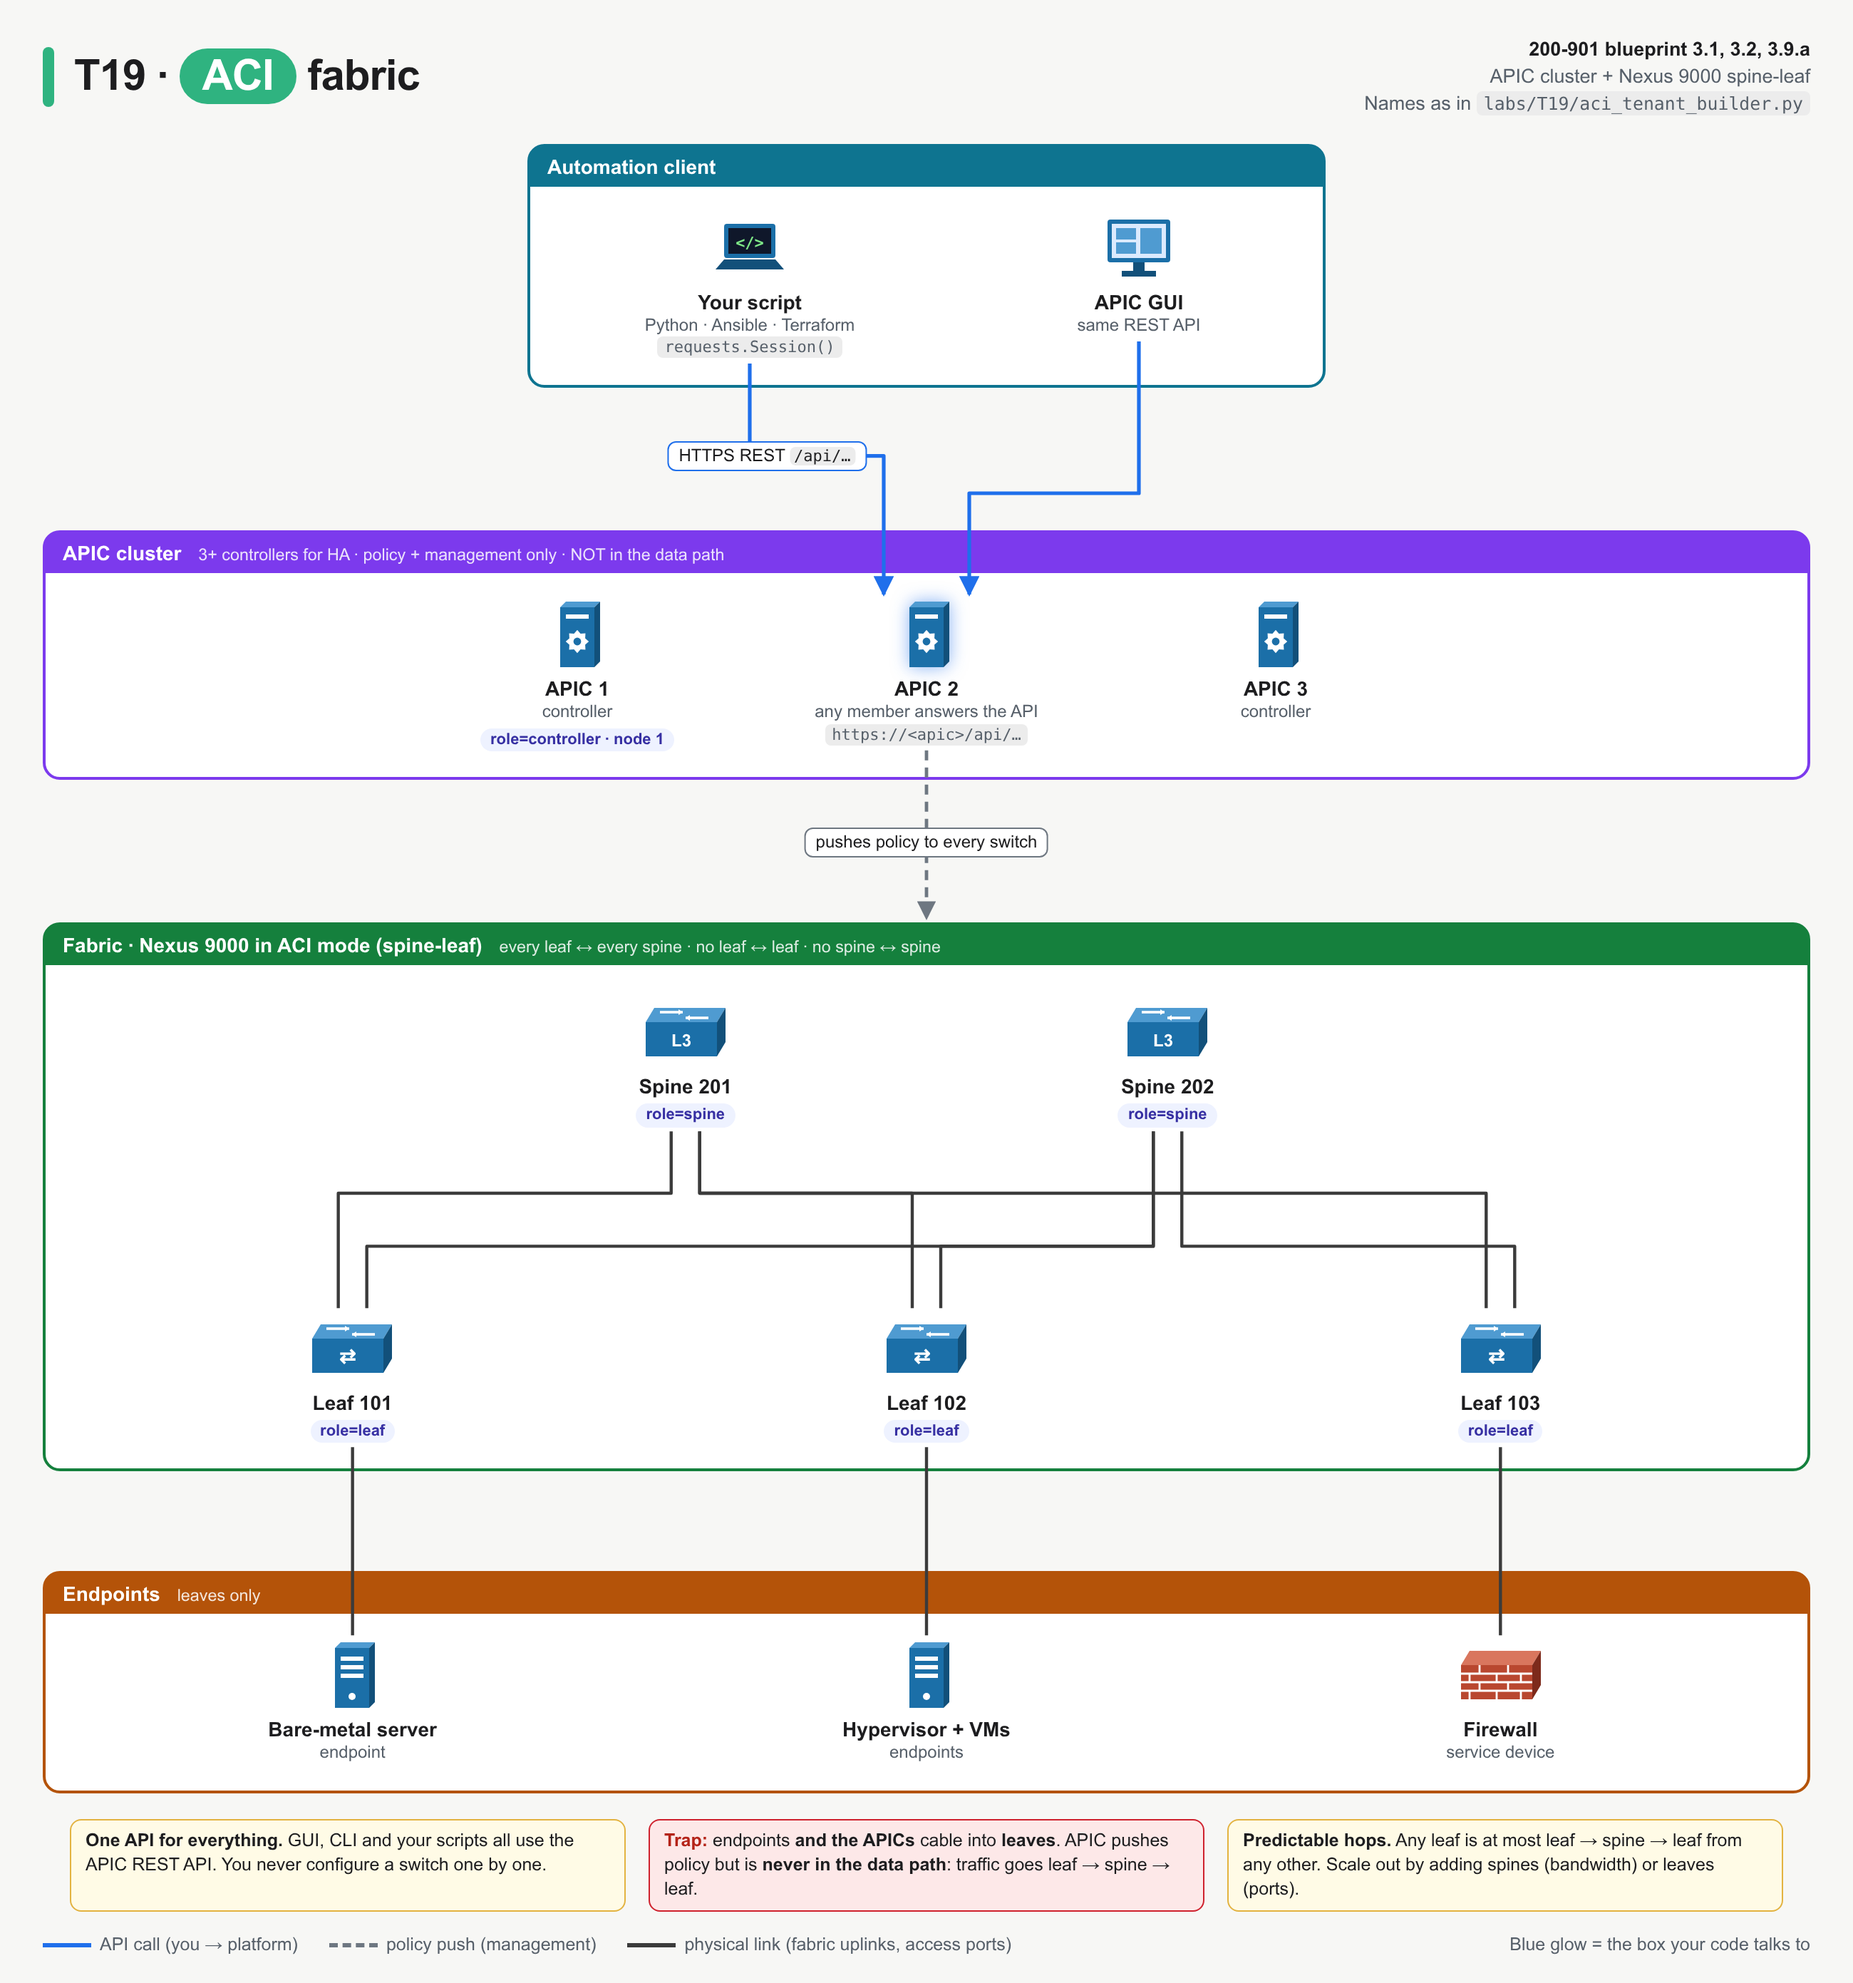
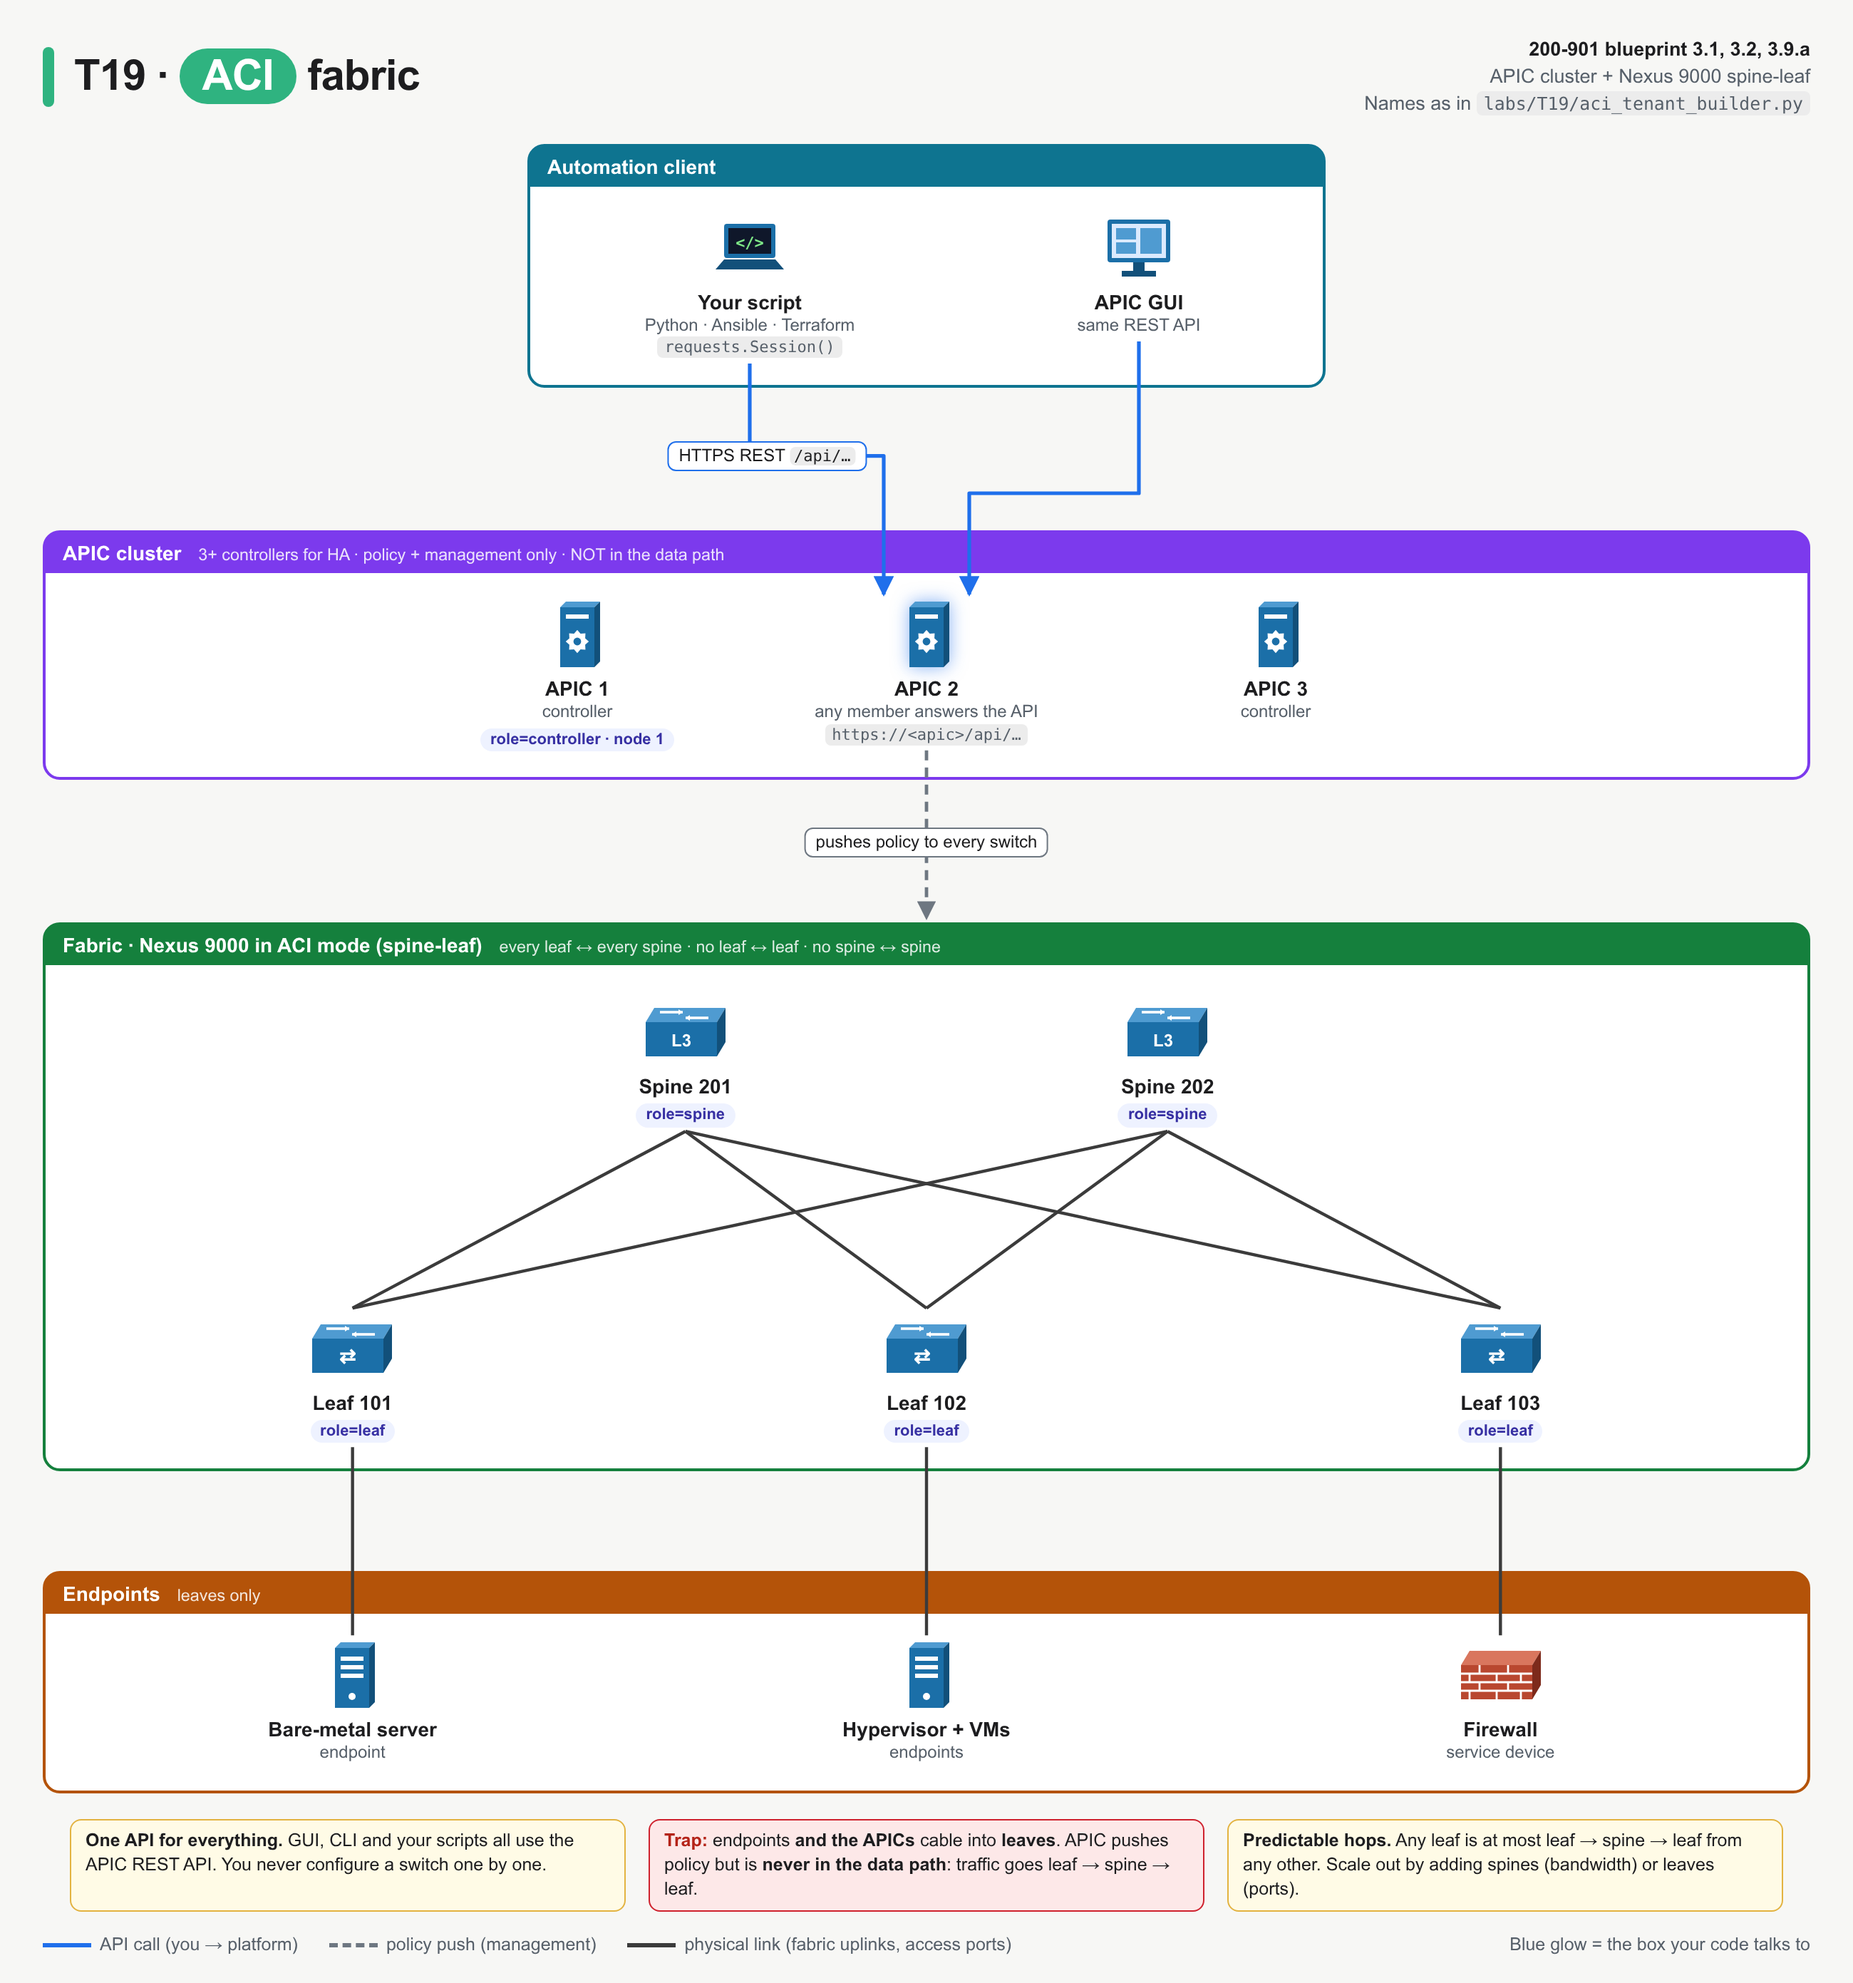
T19: draw the spine-leaf mesh with straight links

Changed region(s): [[0.3738, 0.5564, 0.81, 0.6801], [0.2181, 0.5873, 0.3738, 0.6492], [0.1869, 0.6492, 0.2181, 0.6801]]

diff --git a/assets/T19/01-fabric.html b/assets/T19/01-fabric.html
@@ -93,13 +93,13 @@ window.LINKS = [
   { a: "script", b: "apic2", k: "api", s: "b-t", bo: -30, mid: 0.4, label: "HTTPS REST <code>/api/…</code>", t: 0.3 },
   { a: "gui", b: "apic2", k: "api", s: "b-t", bo: 30, mid: 0.6 },
   { a: "apic2", b: "fabric", k: "mgmt", label: "pushes policy to every switch", t: 0.55 },
-  // spine 201 bus (upper level), spine 202 bus (lower level)
-  { a: "s201", b: "l101", k: "phys", s: "b-t", ao: -10, bo: -10, mid: 0.35 },
-  { a: "s201", b: "l102", k: "phys", s: "b-t", ao: 10, bo: -10, mid: 0.35 },
-  { a: "s201", b: "l103", k: "phys", s: "b-t", ao: 10, bo: -10, mid: 0.35 },
-  { a: "s202", b: "l101", k: "phys", s: "b-t", ao: -10, bo: 10, mid: 0.65 },
-  { a: "s202", b: "l102", k: "phys", s: "b-t", ao: -10, bo: 10, mid: 0.65 },
-  { a: "s202", b: "l103", k: "phys", s: "b-t", ao: 10, bo: 10, mid: 0.65 },
+  // full mesh: every spine to every leaf, drawn as straight lines
+  { a: "s201", b: "l101", k: "phys", s: "b-t", r: "straight" },
+  { a: "s201", b: "l102", k: "phys", s: "b-t", r: "straight" },
+  { a: "s201", b: "l103", k: "phys", s: "b-t", r: "straight" },
+  { a: "s202", b: "l101", k: "phys", s: "b-t", r: "straight" },
+  { a: "s202", b: "l102", k: "phys", s: "b-t", r: "straight" },
+  { a: "s202", b: "l103", k: "phys", s: "b-t", r: "straight" },
   { a: "l101", b: "srv", k: "phys" },
   { a: "l102", b: "vm", k: "phys" },
   { a: "l103", b: "fw", k: "phys" },
